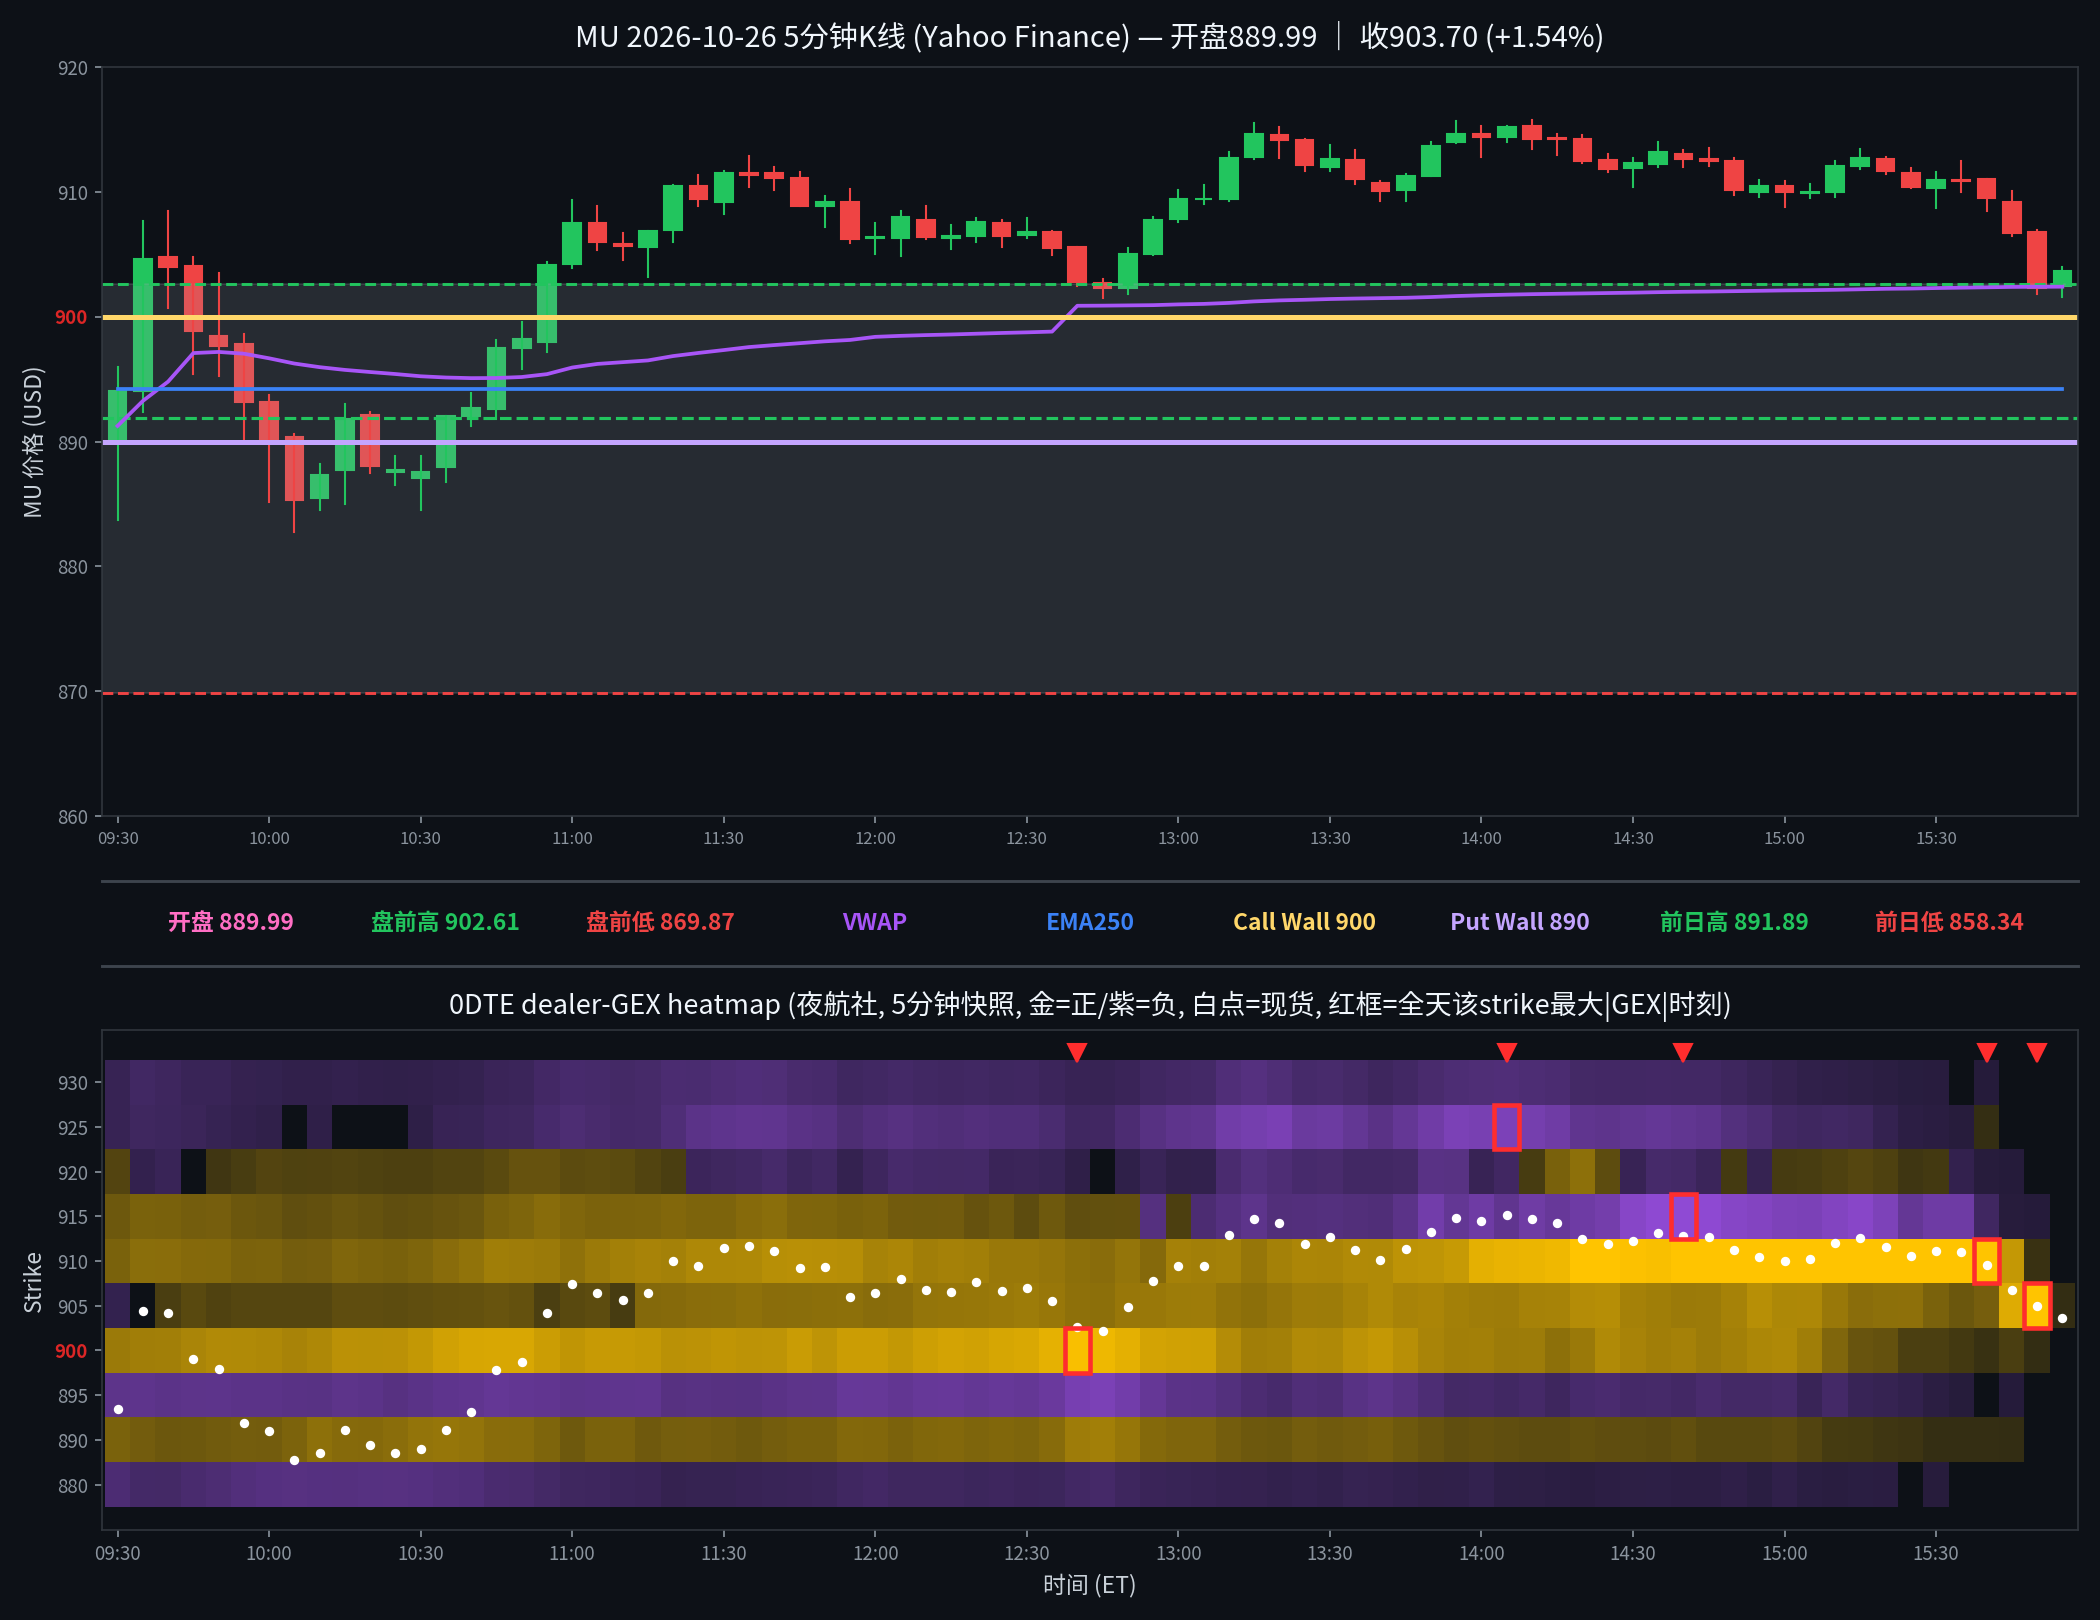
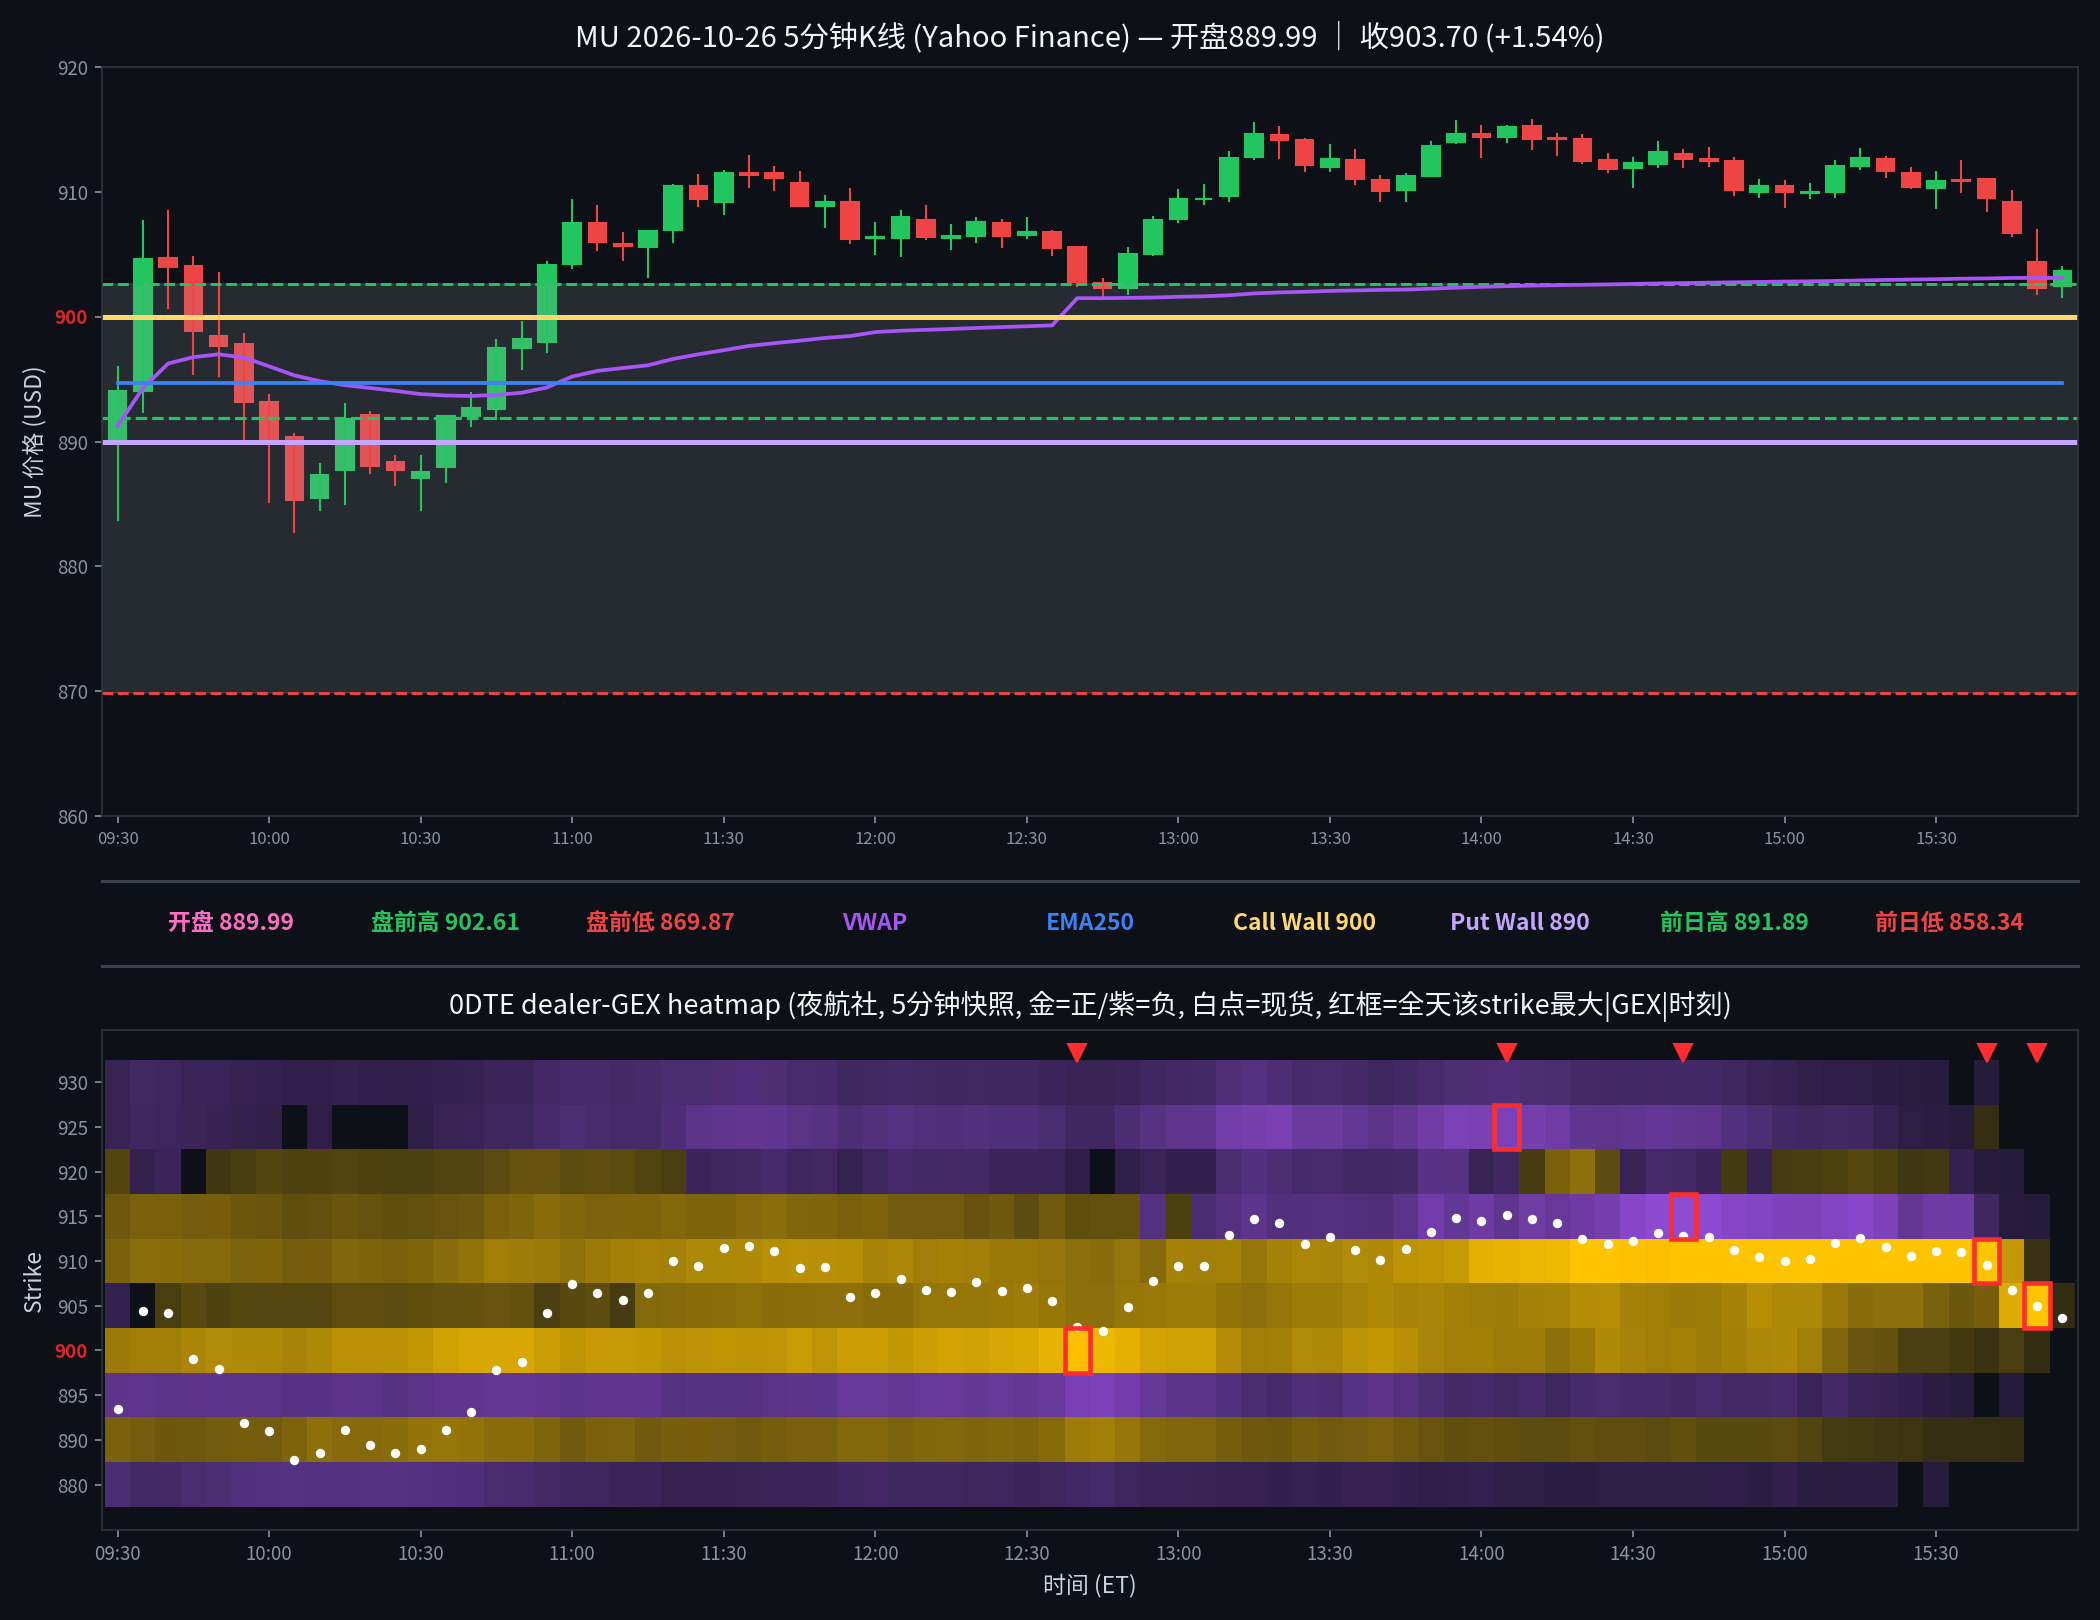
daily 2026-10-26 mu junkman

Changed region(s): [[0.0619, 0.1852, 0.9905, 0.2469], [0.5881, 0.1235, 0.9905, 0.1852]]

diff --git a/mu/index.html b/mu/index.html
@@ -129,9 +129,30 @@
 </div></aside>
 <section aria-label="早盘分析">
 <div class="section-head"><h2>早盘分析</h2><div class="source">
-<p>（Junk-man 早盘简报未抓取到，留空待补）</p>
+<p>2026-10-26 07:23 MDT｜Alpha夜航社 #junkman-analysis｜作者 junk_man（APP徽章）</p>
 </div></div>
-<div class="brief"><p>（待补充 Junk-man 当日 #junkman-analysis 原文）</p></div>
+<div class="brief"><pre class="verbatim">
+Junk-man 盘前 MU 数据点整理（2026-10-26）
+来源：Alpha夜航社 Discord #junkman-analysis（07:23 MDT 合并卡片「⚡ GEX｜盘前作战卡｜1/2」内 MU 节；当日三标的同属该条合并消息，非独立单卡；单条消息链接未在浏览器视图中验证）
+已用于 MU 日内报告 10/26 tab 早盘分析区
+注：MU 节仅有以下四条交易机会，无回踩 Call、无防守 Call、无开盘动量特征行；MAGNET 为区域内、FLIP 为上方（非下方）
+
+━━━━━━━━━━━━━━━━━━━━
+💵 盘前参考价：895.955
+🟢 GEX 状态：正 GEX｜钉住/均值回归
+🔴 CALL WALL 900（下方）｜🟣 MAGNET 895（区域内）
+🟢 PUT WALL 890（上方）｜🔵 FLIP 890.7（上方）
+🎯 交易区间 890–900｜上墙延伸 905 → 910
+📊 IV 41.0% (1DTE)｜高波动｜1σ ±20.61 (±2.30%)｜波动区间 875.35–916.57
+🛟 低点观察区 890.7–895（非最低价预测）；破 890.7 停接
+🧭 开盘分支：开在 895 下方（反抽不过→先看 890.7）｜900 上方（回踩守住→先看 905）｜之间或贴近边界等待确认
+🎯 交易机会（触发→目标链）：
+• 突破 Call：站稳 900、回踩有效 → 905 → 910；910 再站稳才看 915 → 920
+• 受阻 Put：900 受阻、再失守 895 → 890.7 → 885
+• 破位 Put：跌破 895、反抽不过 → 890.7 → 885；收回 895 取消（无“失守再看 Put Wall”句）
+• 抄底 Call：下探 890.7–895 后收复 895、回踩守住 → 900 → 905
+</pre></div>
+<p class="data-note">盘前预测 · 情况未发生</p>
 </section>
 <section aria-label="K线与heatmap">
 <div class="section-head"><h2>5 分钟 K 线 × 0DTE heatmap</h2><div class="source">
@@ -210,7 +231,7 @@
 <article class="summary-item"><p>② 白点轨迹：开 889.99 → 高 915.75 → 低 882.77 → 收 903.70。</p></article>
 <article class="summary-item"><p>③ 墙位：call 900 / put 890（heatmap首档算法口径）；heatmap 算法墙首→末：call wall 900→905（上移）。</p></article>
 <article class="summary-item"><p>④ 资金流：全天10笔：主动买入(call ask + put bid)$2.65M，主动卖出(put ask + call bid)$0.22M，mid $0.24M（不计入主动买卖）；主动资金偏多。</p></article>
-<article class="summary-item"><p>⑤ 收盘在 VWAP 上方（VWAP 902.42，EMA250 894.24）。</p></article>
+<article class="summary-item"><p>⑤ 收盘在 VWAP 上方（VWAP 903.12，EMA250 894.67）。</p></article>
 </div></section>
 <p class="data-note">heatmap 亮度=平方根连续渐变（p99 裁剪）；K线=Yahoo Finance 5分钟；heatmap=夜航社 dealer-GEX 5分钟快照。</p>
 <p class="data-note">收盘后的静态快照；页面不在打开时更新行情。</p>

diff --git a/mu/2026-10-26.html b/mu/2026-10-26.html
@@ -63,9 +63,30 @@
 </div></aside>
 <section aria-label="早盘分析">
 <div class="section-head"><h2>早盘分析</h2><div class="source">
-<p>（Junk-man 早盘简报未抓取到，留空待补）</p>
+<p>2026-10-26 07:23 MDT｜Alpha夜航社 #junkman-analysis｜作者 junk_man（APP徽章）</p>
 </div></div>
-<div class="brief"><p>（待补充 Junk-man 当日 #junkman-analysis 原文）</p></div>
+<div class="brief"><pre class="verbatim">
+Junk-man 盘前 MU 数据点整理（2026-10-26）
+来源：Alpha夜航社 Discord #junkman-analysis（07:23 MDT 合并卡片「⚡ GEX｜盘前作战卡｜1/2」内 MU 节；当日三标的同属该条合并消息，非独立单卡；单条消息链接未在浏览器视图中验证）
+已用于 MU 日内报告 10/26 tab 早盘分析区
+注：MU 节仅有以下四条交易机会，无回踩 Call、无防守 Call、无开盘动量特征行；MAGNET 为区域内、FLIP 为上方（非下方）
+
+━━━━━━━━━━━━━━━━━━━━
+💵 盘前参考价：895.955
+🟢 GEX 状态：正 GEX｜钉住/均值回归
+🔴 CALL WALL 900（下方）｜🟣 MAGNET 895（区域内）
+🟢 PUT WALL 890（上方）｜🔵 FLIP 890.7（上方）
+🎯 交易区间 890–900｜上墙延伸 905 → 910
+📊 IV 41.0% (1DTE)｜高波动｜1σ ±20.61 (±2.30%)｜波动区间 875.35–916.57
+🛟 低点观察区 890.7–895（非最低价预测）；破 890.7 停接
+🧭 开盘分支：开在 895 下方（反抽不过→先看 890.7）｜900 上方（回踩守住→先看 905）｜之间或贴近边界等待确认
+🎯 交易机会（触发→目标链）：
+• 突破 Call：站稳 900、回踩有效 → 905 → 910；910 再站稳才看 915 → 920
+• 受阻 Put：900 受阻、再失守 895 → 890.7 → 885
+• 破位 Put：跌破 895、反抽不过 → 890.7 → 885；收回 895 取消（无“失守再看 Put Wall”句）
+• 抄底 Call：下探 890.7–895 后收复 895、回踩守住 → 900 → 905
+</pre></div>
+<p class="data-note">盘前预测 · 情况未发生</p>
 </section>
 <section aria-label="K线与heatmap">
 <div class="section-head"><h2>5 分钟 K 线 × 0DTE heatmap</h2><div class="source">
@@ -144,7 +165,7 @@
 <article class="summary-item"><p>② 白点轨迹：开 889.99 → 高 915.75 → 低 882.77 → 收 903.70。</p></article>
 <article class="summary-item"><p>③ 墙位：call 900 / put 890（heatmap首档算法口径）；heatmap 算法墙首→末：call wall 900→905（上移）。</p></article>
 <article class="summary-item"><p>④ 资金流：全天10笔：主动买入(call ask + put bid)$2.65M，主动卖出(put ask + call bid)$0.22M，mid $0.24M（不计入主动买卖）；主动资金偏多。</p></article>
-<article class="summary-item"><p>⑤ 收盘在 VWAP 上方（VWAP 902.42，EMA250 894.24）。</p></article>
+<article class="summary-item"><p>⑤ 收盘在 VWAP 上方（VWAP 903.12，EMA250 894.67）。</p></article>
 </div></section>
 <p class="data-note">heatmap 亮度=平方根连续渐变（p99 裁剪）；K线=Yahoo Finance 5分钟；heatmap=夜航社 dealer-GEX 5分钟快照。</p>
 <p class="data-note">收盘后的静态快照；页面不在打开时更新行情。</p>
